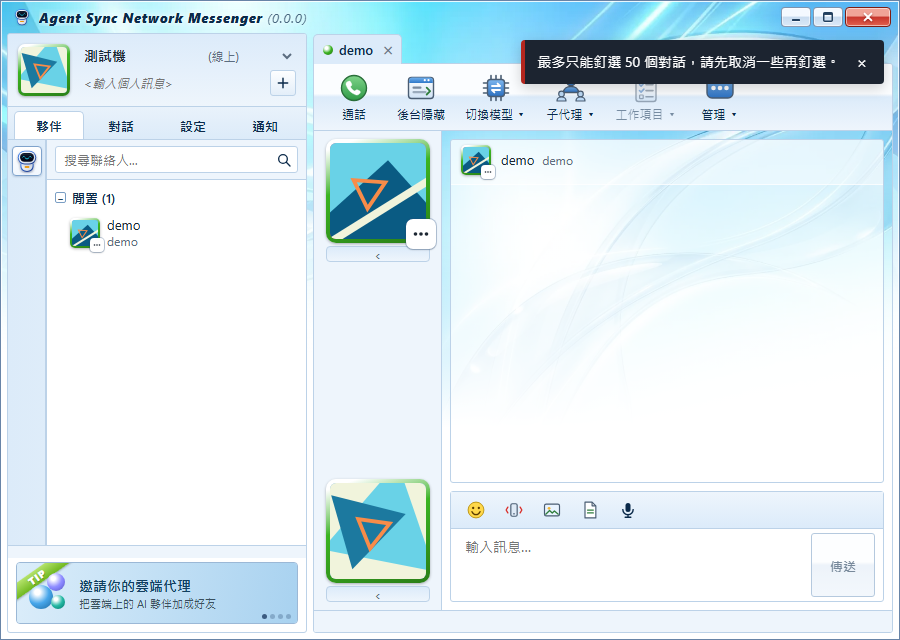
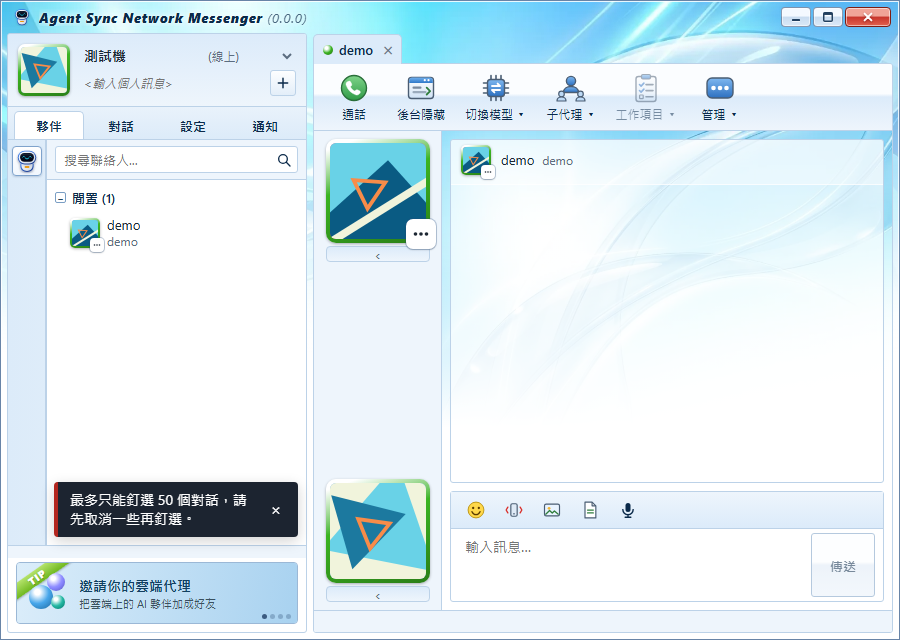
#2425 PR-3：結果提示依二審原則再調位置，不蓋任何按得到的東西
- 單一 AsnToast：showResult(kind, text, { at }) 多一個 at。電腦：'chat'＝對話視窗，放在訊息區下緣、輸入區正上方；'list'＝名單頁，放在名單區下緣。指定的那區看不到就用另一區。手機不給 at，維持底部置中
- 錨點：chatpane 的訊息區 data-toast-anchor="chat"、list.html 的名單內容區 data-toast-anchor="list"；位置由純函式 toastPlace／toastAnchorStyle 量錨點算出，寫成行內 left／bottom／max-width
- kit.css：預設回到底部（手機與找不到錨點時用），拿掉右上角規則與 --toast-top，註解改成新位置
- 冒煙探測 resultToast 加「不重疊」斷言：電腦三個情境量 toast 的方框，不可以跟按鈕、輸入框、分頁、功能列、搜尋框、輸入區重疊
- result-toast 測試：toastPlace、錨點選擇、行內位置、接線與 CSS 約束
- 刪掉沒人用的 ACCT_TOAST_MS（先 grep 確認沒有引用）
- 改後 5 張截圖重截

Claude-Session: https://claude.ai/code/session_01DKUtyJmSHbAQjbFUD3ERCM

Changed region(s): [[0.56, 0.0625, 0.9956, 0.1562], [0.0622, 0.75, 0.3422, 0.8438]]

diff --git a/relay/asn/ui/kit.css b/relay/asn/ui/kit.css
@@ -7,7 +7,7 @@
   --kit-ok:#2e7d32; --kit-fail:#b3261e; --kit-current:#4b5058;
   --radius-1:4px; --shadow-pop:0 4px 14px rgba(0,0,0,.18);   /* 圓角、浮出層（選單）的陰影 */
   --kit-warn:#a86f00; --kit-warn-line:#d9b25a;   /* 警告色（登入已失效的提示與標籤）；黃色鈕另用 --kit-relogin-* */
-  --kit-toast-bg:#1c2430; --kit-toast-fg:#fff; --toast-top:calc(var(--sp-5) + var(--sp-4)); --toast-bottom:var(--sp-5); --toast-max:480px;   /* 結果提示（AsnToast）：深底白字；電腦在右上角、離頂端 40（在 32 高的自訂標題列下面，不蓋到標題列按鈕）、手機離底部、最寬 */
+  --kit-toast-bg:#1c2430; --kit-toast-fg:#fff; --toast-bottom:var(--sp-5); --toast-max:480px;   /* 結果提示（AsnToast）：深底白字、預設離底部的距離（手機與找不到錨點時用）、最寬 */
   --kit-relogin-bg:#ffd84d; --kit-relogin-fg:#3b2c00; --kit-relogin-line:#c79a00;
 }
 /* 手機：字級各加大一檔、鈕高 40（最小觸控目標） */
@@ -59,10 +59,9 @@
 .asn-note-banner{box-sizing:border-box; width:100%; padding:var(--sp-2) var(--sp-3); border-bottom:1px solid var(--line); background:var(--panel-soft)}
 .asn-note-banner .asn-note-text{flex:1 1 auto}
 .asn-note-banner.asn-note-warn{border-bottom-color:var(--kit-warn-line)}
-/* ---- 結果提示 AsnToast（#2425 位置 D）：底部浮出一則，成功 4 秒、失敗 6 秒自己消失；成功綠邊、失敗紅邊；字級與觸控尺寸跟著 .m-body 走 ---- */
-.asn-toast{position:fixed; z-index:calc(var(--z-mask, 100) + 10); top:var(--toast-top); right:var(--sp-4); box-sizing:border-box; display:flex; align-items:center; gap:var(--sp-2); width:max-content; max-width:min(var(--toast-max), calc(100vw - 2 * var(--sp-4))); padding:var(--sp-2) var(--sp-2) var(--sp-2) var(--sp-3); border-radius:var(--radius-1); border-left:var(--sp-1) solid var(--kit-ok); background:var(--kit-toast-bg); color:var(--kit-toast-fg); font-size:var(--fs-3); line-height:1.4; box-shadow:var(--shadow-pop); overflow-wrap:anywhere}
-/* 手機：維持底部置中、浮在分頁列上方（電腦版在右上角，不蓋到輸入區） */
-.m-body .asn-toast{top:auto; right:auto; left:50%; bottom:var(--toast-bottom); transform:translateX(-50%)}
+/* ---- 結果提示 AsnToast（#2425 位置 D）：成功 4 秒、失敗 6 秒自己消失；成功綠邊、失敗紅邊；字級與觸控尺寸跟著 .m-body 走。
+   位置：手機在底部、浮在分頁列上方（下面的預設）；電腦由 ui-kit 依錨點寫行內的 left／bottom／max-width——對話視窗在輸入區上方（訊息區下緣）、名單頁在名單區下緣，不蓋到按鈕、輸入區、分頁 ---- */
+.asn-toast{position:fixed; z-index:calc(var(--z-mask, 100) + 10); left:50%; bottom:var(--toast-bottom); transform:translateX(-50%); box-sizing:border-box; display:flex; align-items:center; gap:var(--sp-2); width:max-content; max-width:min(var(--toast-max), calc(100vw - 2 * var(--sp-4))); padding:var(--sp-2) var(--sp-2) var(--sp-2) var(--sp-3); border-radius:var(--radius-1); border-left:var(--sp-1) solid var(--kit-ok); background:var(--kit-toast-bg); color:var(--kit-toast-fg); font-size:var(--fs-3); line-height:1.4; box-shadow:var(--shadow-pop); overflow-wrap:anywhere}
 .asn-toast.k-fail{border-left-color:var(--kit-fail)}
 .asn-toast-text{min-width:0; flex:1 1 auto}
 .asn-toast-close{flex:none; box-sizing:border-box; min-width:var(--btn-h); min-height:var(--btn-h); padding:0; border:0; border-radius:var(--radius-1); background:transparent; color:inherit; font:inherit; font-size:var(--fs-4); line-height:1; cursor:pointer}

diff --git a/relay/asn/ui/list.js b/relay/asn/ui/list.js
@@ -191,7 +191,7 @@ const isChatPinned = id => chatIsPinned(chatPins.value, id)
 function togglePinChat(id) {
   const r = togglePin(chatPins.value, id)
   if (r.ok) chatPins.value = r.state
-  else showResult('fail', r.text)   // 滿 50 個：結果提示說明，不動原本的釘選
+  else showResult('fail', r.text, { at: 'list' })   // 滿 50 個：名單區下緣的結果提示說明，不動原本的釘選
 }
 // 設備順序同步到帳號層（lib/device-sync.mjs）：有登入才同步，整份以 rev 較新的為準；沒登入或後台還沒部署就只用本機檔。--shot 截圖模式不動
 const devSync = createDeviceSync({ prefs: devPrefs, api: { get: authApi.getDevicePrefs, set: authApi.setDevicePrefs }, canSync: async () => (await authApi.status().catch(() => null))?.signed_in === true })
@@ -914,7 +914,7 @@ setLocalArchiver((f, a) => core.setLocalArchived(f, a))
 async function setArchived(f, archived) {
   const r = await runArchive(transport, f, archived)
   if (r.ok) await core.refreshRoster()
-  showResult(r.ok ? 'ok' : 'fail', r.text)
+  showResult(r.ok ? 'ok' : 'fail', r.text, { at: 'list' })
 }
 function closeOpDlg() { opDlg.open = false }
 // 夥伴操作的進度：對話框送出後收起，進度就地顯示在名單上方的提示列（#1800）；改名完成要讓釘選跟著換位址

diff --git a/relay/asn/ui/list.html b/relay/asn/ui/list.html
@@ -94,7 +94,7 @@
           </ul>
         </div>
       </nav>
-      <div class="content" role="tabpanel">
+      <div class="content" role="tabpanel" data-toast-anchor="list">
         <template v-if="isDevice">
           <div class="search">
             <!-- 放大鏡放進搜尋框右側（#1531）：點了一樣是把游標放進搜尋框（focusSearch）；LINE 外觀照舊用框內左側的底圖，這顆不顯示 -->
